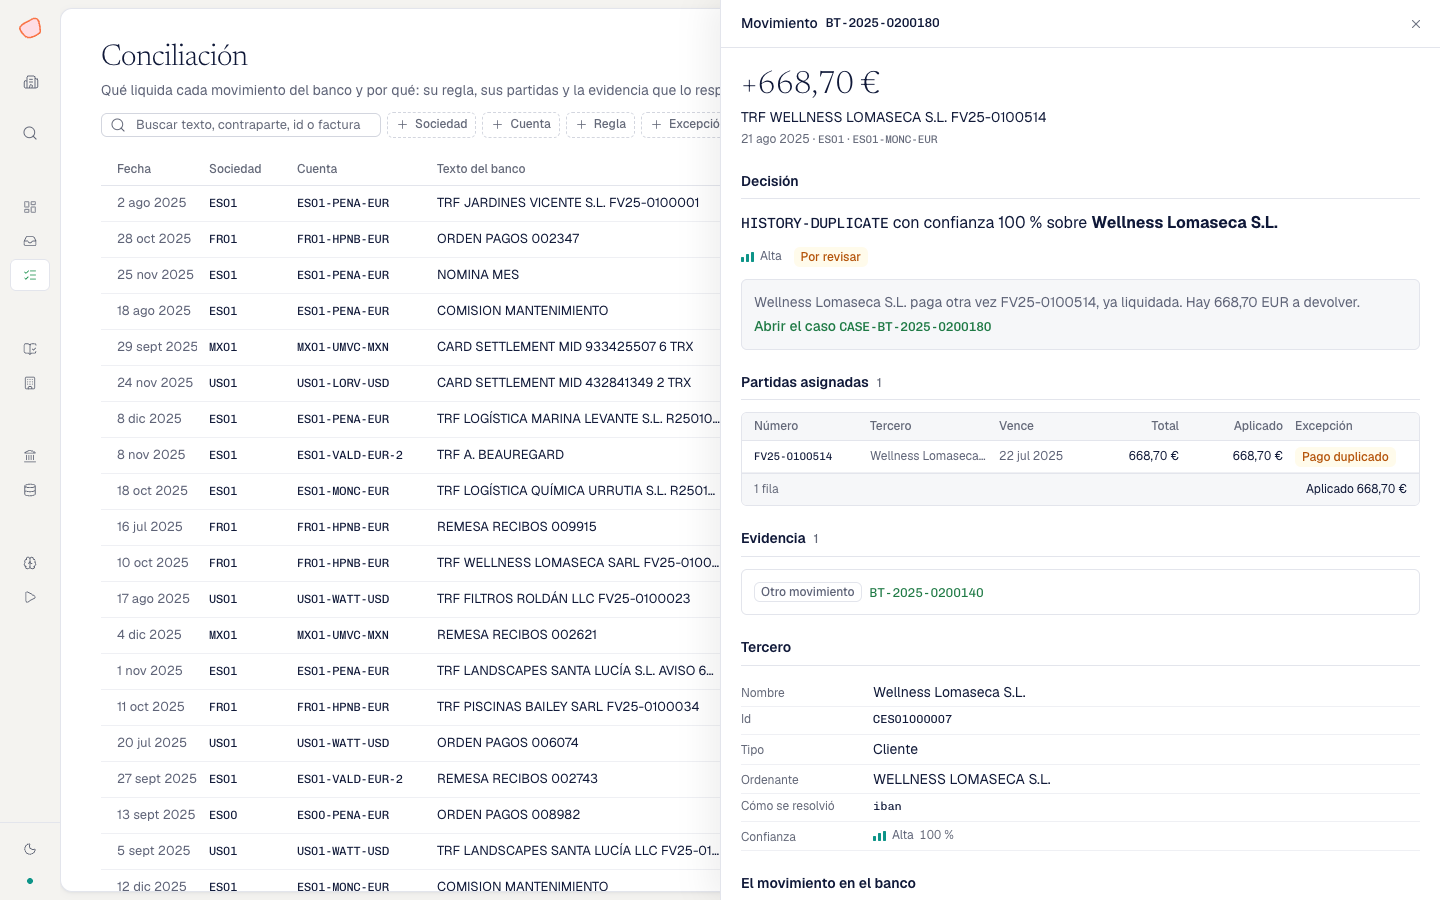
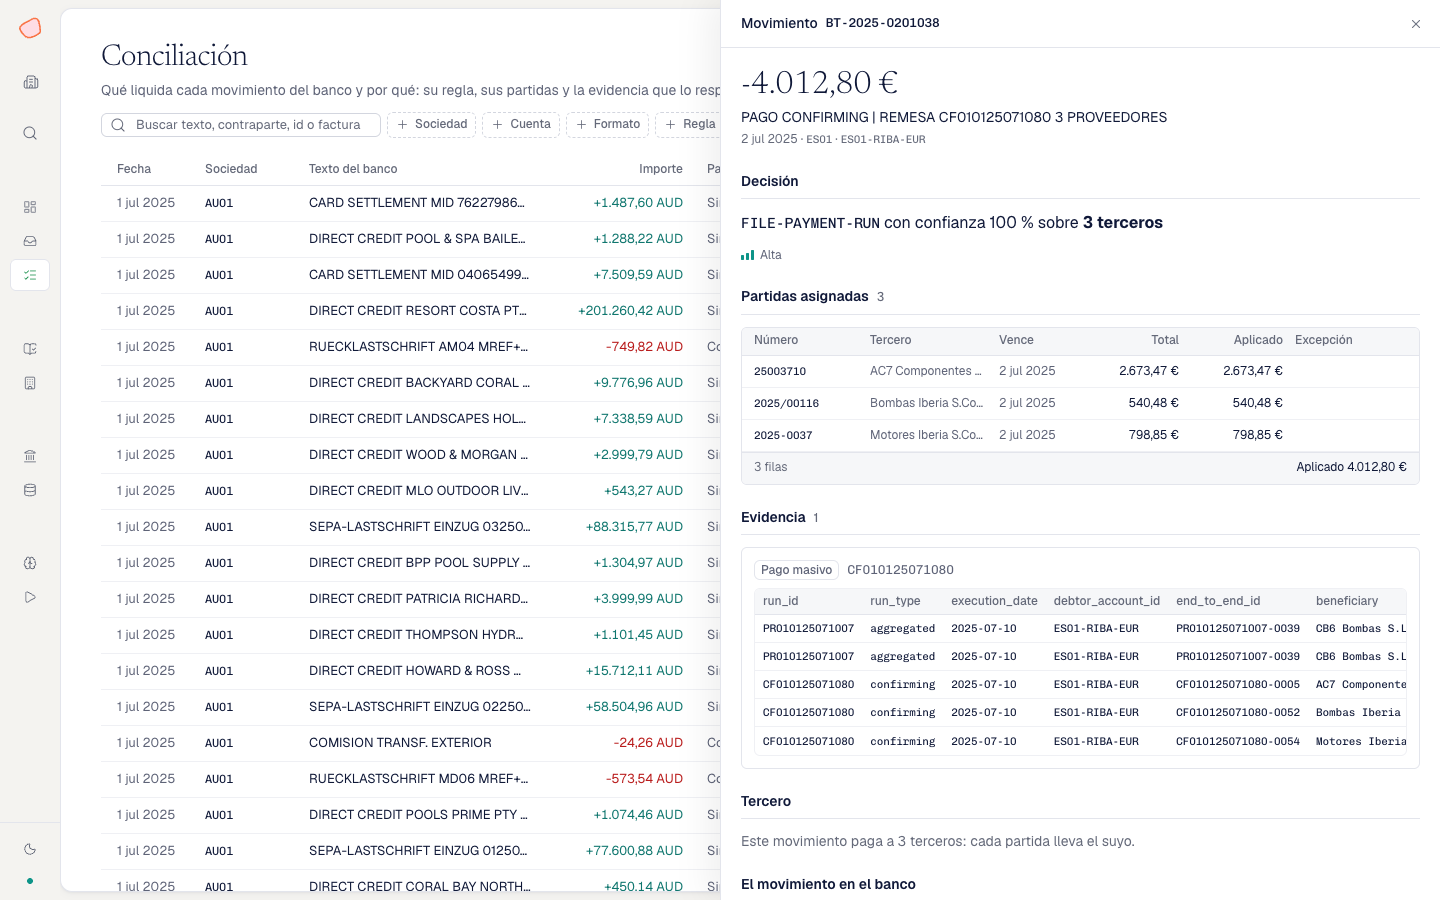
[KPI-7] fix: design pass over the shared components and the screens in main
* [KPI-7] fix: Spanish labels for bank categories

(cherry picked from commit 0c72194ccd0ac05768b8546ce1193e1a87164600)

* [KPI-7] fix: larger hit areas for sort headers and metric hints

(cherry picked from commit d1a57c63c44796242bf2285eb7e62d69ab41d52e)

* [KPI-7] fix: let a progress segment take a token colour of its own

(cherry picked from commit 30ecb0bbd16d3c14438f7c585478a9100c8f5447)

* [KPI-7] fix: accounts columns fit headers and amounts, net of the period no longer reads as a balance

(cherry picked from commit 0445e644545325e9ecab1d0f405786d687b4a3ca)

* [KPI-7] fix: reconciliation keeps its rule column in view, wide case badge and Spanish category names

(cherry picked from commit 622df5db34c9194d352fc099b3a92a7c9b6ec05d)

* [KPI-7] fix: Spanish category name in the movement panel

(cherry picked from commit d58e3395cd33ec4b9278c04fdf3db3a64acd4ce7)

* [KPI-7] fix: Spanish category names in the overview

(cherry picked from commit eb4f5532aecda57cc6477784154d1766f6e58f18)

* [KPI-7] fix: one new-rule action on the empty rules list

(cherry picked from commit d928df177f9c9aa83b3e3fa2fcd49f1055e47073)

* [KPI-7] fix: reconciliation amount column fits the longest foreign amount

(cherry picked from commit 5601202c873c951430134f8979764f4cf6d7c531)

* [KPI-7] docs: refresh screenshots with the real LIVE run

diff --git a/app/src/features/accounts/AccountsPage.tsx b/app/src/features/accounts/AccountsPage.tsx
@@ -26,9 +26,9 @@ const COLUMNS: Column<Account>[] = [
     ),
     sortValue: (a) => a.accountId,
   },
-  { id: 'bank', header: 'Banco', width: 'minmax(112px, 1fr)', cell: (a) => a.bankName ?? a.bank, sortValue: (a) => a.bankName ?? a.bank },
-  { id: 'entity', header: 'Sociedad', width: 84, cell: (a) => <Mono>{a.entity}</Mono>, sortValue: (a) => a.entity },
-  { id: 'currency', header: 'Divisa', width: 64, cell: (a) => <Mono>{a.currency}</Mono>, sortValue: (a) => a.currency },
+  { id: 'bank', header: 'Banco', width: 'minmax(150px, 1fr)', cell: (a) => a.bankName ?? a.bank, sortValue: (a) => a.bankName ?? a.bank },
+  { id: 'entity', header: 'Sociedad', width: 104, cell: (a) => <Mono>{a.entity}</Mono>, sortValue: (a) => a.entity },
+  { id: 'currency', header: 'Divisa', width: 84, cell: (a) => <Mono>{a.currency}</Mono>, sortValue: (a) => a.currency },
   {
     id: 'format',
     header: 'Formato',
@@ -45,13 +45,13 @@ const COLUMNS: Column<Account>[] = [
     },
     sortValue: (a) => currentFormat(a.formats),
   },
-  { id: 'txns', header: 'Movimientos', width: 104, align: 'right', cell: (a) => formatNumber(a.txns), sortValue: (a) => a.txns },
+  { id: 'txns', header: 'Movimientos', width: 124, align: 'right', cell: (a) => formatNumber(a.txns), sortValue: (a) => a.txns },
   {
     id: 'inflow',
     header: 'Entradas',
     width: 120,
     align: 'right',
-    cell: (a) => <Amount cents={a.inflowCents} currency={a.currency} decimals={0} />,
+    cell: (a) => <Amount cents={a.inflowCents} currency={a.currency} decimals={0} compact />,
     sortValue: (a) => a.inflowCents,
   },
   {
@@ -59,21 +59,21 @@ const COLUMNS: Column<Account>[] = [
     header: 'Salidas',
     width: 120,
     align: 'right',
-    cell: (a) => <Amount cents={a.outflowCents} currency={a.currency} decimals={0} />,
+    cell: (a) => <Amount cents={a.outflowCents} currency={a.currency} decimals={0} compact />,
     sortValue: (a) => a.outflowCents,
   },
   {
     id: 'net',
-    header: 'Saldo acumulado',
-    width: 140,
+    header: 'Neto del periodo',
+    width: 148,
     align: 'right',
-    cell: (a) => <Amount cents={a.netCents} currency={a.currency} decimals={0} colorize />,
+    cell: (a) => <Amount cents={a.netCents} currency={a.currency} decimals={0} compact />,
     sortValue: (a) => a.netCents,
   },
   {
     id: 'reconciled',
     header: '% conciliado',
-    width: 112,
+    width: 132,
     cell: (a) =>
       a.reconciledRate == null ? (
         '—'
@@ -106,7 +106,7 @@ export function AccountsPage() {
 
   return (
     <Page fill>
-      <PageHeader title="Cuentas bancarias" subtitle="Las cuentas del grupo, su formato, su saldo y su conciliación. Pulsa una cuenta para ver sus movimientos." />
+      <PageHeader title="Cuentas bancarias" subtitle="Las cuentas del grupo, su formato, su neto y su conciliación. Pulsa una cuenta para ver sus movimientos." />
       <div className={styles.metrics}>
         <Card padding="sm">
           <Metric label="Cuentas" value={formatNumber(summary.accounts)} loading={accounts.isPending} />

diff --git a/app/src/features/reconciliation/ReconciliationPage.tsx b/app/src/features/reconciliation/ReconciliationPage.tsx
@@ -15,15 +15,14 @@ import styles from './ReconciliationPage.module.css'
 const getRowId = (t: TxnRow) => t.bankTxnId
 
 const COLUMNS: Column<TxnRow>[] = [
-  { id: 'bookingDate', header: 'Fecha', width: 96, cell: (t) => <span className={styles.muted}>{formatDate(t.bookingDate)}</span>, sortValue: (t) => t.bookingDate },
-  { id: 'entity', header: 'Sociedad', width: 88, cell: (t) => <Mono>{t.entity}</Mono>, sortValue: (t) => t.entity },
-  { id: 'accountId', header: 'Cuenta', width: 140, cell: (t) => <Mono>{t.accountId}</Mono>, sortValue: (t) => t.accountId },
-  { id: 'text', header: 'Texto del banco', width: 'minmax(240px, 2fr)', cell: (t) => <span className={styles.text} title={t.text}>{t.text}</span>, sortValue: (t) => t.text },
-  { id: 'amountEur', header: 'Importe', width: 132, align: 'right', cell: (t) => <Amount cents={t.amountCents} currency={t.currency} signed colorize />, sortValue: (t) => t.amountEur },
+  { id: 'bookingDate', header: 'Fecha', width: 92, cell: (t) => <span className={styles.muted}>{formatDate(t.bookingDate)}</span>, sortValue: (t) => t.bookingDate },
+  { id: 'entity', header: 'Sociedad', width: 104, cell: (t) => <Mono>{t.entity}</Mono>, sortValue: (t) => t.entity },
+  { id: 'text', header: 'Texto del banco', width: 'minmax(180px, 2fr)', cell: (t) => <span className={styles.text} title={t.text}>{t.text}</span>, sortValue: (t) => t.text },
+  { id: 'amountEur', header: 'Importe', width: 152, align: 'right', cell: (t) => <Amount cents={t.amountCents} currency={t.currency} signed colorize />, sortValue: (t) => t.amountEur },
   {
     id: 'rowCount',
     header: 'Partidas',
-    width: 150,
+    width: 148,
     cell: (t) => {
       const { first, mono, extra } = rowsCell(t)
       if (first == null) return <span className={styles.muted}>—</span>
@@ -36,15 +35,17 @@ const COLUMNS: Column<TxnRow>[] = [
     },
     sortValue: (t) => t.rowCount,
   },
-  { id: 'rule', header: 'Regla', width: 168, cell: (t) => <Mono>{t.rule}</Mono>, sortValue: (t) => t.rule },
+  { id: 'rule', header: 'Regla', width: 176, cell: (t) => <Mono>{t.rule}</Mono>, sortValue: (t) => t.rule },
   { id: 'confidence', header: 'Confianza', width: 96, cell: (t) => <ConfidenceBand value={t.confidence} />, sortValue: (t) => t.confidence },
   {
     id: 'caseStatus',
     header: 'Caso',
-    width: 112,
+    width: 136,
     cell: (t) => (t.caseStatus ? <Badge tone={CASE_STATUS_TONE[t.caseStatus]}>{CASE_STATUS_LABEL[t.caseStatus]}</Badge> : <span className={styles.muted}>—</span>),
     sortValue: (t) => t.caseStatus,
   },
+  // Last: the account is also a filter and the panel's header, so it is what falls off a narrow screen, not the rule.
+  { id: 'accountId', header: 'Cuenta', width: 140, cell: (t) => <Mono>{t.accountId}</Mono>, sortValue: (t) => t.accountId },
 ]
 
 export function ReconciliationPage() {

diff --git a/app/src/features/reconciliation/model.ts b/app/src/features/reconciliation/model.ts
@@ -1,6 +1,6 @@
 // Pure logic of the reconciliation screen: URL filters → API params, facet options, table cells.
 import type { Account, CaseStatus, RunStats, TxnRow } from '@/domain'
-import { CASE_STATUS_LABEL, exceptionLabel, INBOX_STATUSES } from '@/domain'
+import { CASE_STATUS_LABEL, categoryLabel, exceptionLabel, INBOX_STATUSES } from '@/domain'
 import type { SortState } from '@/components'
 
 export type FacetKey = 'entity' | 'account' | 'format' | 'rule' | 'exception' | 'category' | 'status'
@@ -61,7 +61,7 @@ export function rowsCell(row: TxnRow): RowsCell {
   if (!a || row.rowCount === 0) return { first: null, mono: false, extra: 0 }
   const extra = row.rowCount - 1
   if (a.documentNumber) return { first: a.documentNumber, mono: true, extra }
-  const label = a.exception ? exceptionLabel(a.exception) : a.category
+  const label = a.exception ? exceptionLabel(a.exception) : a.category ? categoryLabel(a.category) : null
   return { first: label, mono: false, extra }
 }
 
@@ -85,7 +85,7 @@ export function buildFacetOptions(stats: RunStats | undefined, accounts: Account
     format: [...new Set((accounts ?? []).flatMap((a) => a.formats.map((f) => f.format)))].sort().map((format) => ({ value: format, label: format })),
     rule: (stats?.byRule ?? []).map((r) => ({ value: r.rule, label: r.rule, count: r.txns })),
     exception: (stats?.byException ?? []).map((e) => ({ value: e.exception, label: exceptionLabel(e.exception) })),
-    category: (stats?.byCategory ?? []).map((c) => ({ value: c.category, label: c.category, count: c.txns })),
+    category: (stats?.byCategory ?? []).map((c) => ({ value: c.category, label: categoryLabel(c.category), count: c.txns })),
     status: (Object.entries(stats?.byStatus ?? {}) as [CaseStatus, number][])
       .sort(([a], [b]) => statusRank(a) - statusRank(b))
       .map(([status, count]) => ({ value: status, label: CASE_STATUS_LABEL[status] ?? status, count })),

diff --git a/app/src/domain/labels.ts b/app/src/domain/labels.ts
@@ -61,8 +61,34 @@ export const EXCEPTION_LABEL: Record<string, string> = {
   UNIDENTIFIED: 'Sin identificar',
 }
 
+/** Short names of the categories in masters/categories.csv; the master's description is the long form. */
+export const CATEGORY_LABEL: Record<string, string> = {
+  BANK_FEES: 'Comisiones bancarias',
+  INTEREST_INCOME: 'Intereses a favor',
+  INTEREST_EXPENSE: 'Intereses de deudas',
+  PAYROLL: 'Nóminas',
+  SOCIAL_SECURITY: 'Seguridad social',
+  TAX_PAYMENT: 'Impuestos',
+  TAX_REFUND: 'Devolución de impuestos',
+  LOAN_DRAWDOWN: 'Disposición de préstamo',
+  LOAN_REPAYMENT: 'Cuota de préstamo',
+  LEASING: 'Leasing',
+  FX_DEAL: 'Compraventa de divisa',
+  CASH_POOL: 'Cash pooling',
+  INTERCOMPANY: 'Intragrupo',
+  INTERNAL_TRANSFER: 'Traspaso entre cuentas',
+  CUSTOMER_ADVANCE: 'Anticipo de cliente',
+  CUSTOMER_REFUND: 'Devolución a cliente',
+  SUPPLIER_REFUND: 'Reembolso de proveedor',
+  CARD_EXPENSES: 'Tarjetas de empresa',
+  INSURANCE: 'Seguros',
+  BANK_REVERSAL: 'Apunte erróneo del banco',
+  UNIDENTIFIED: 'Sin identificar',
+}
+
 /** Unknown values stay readable: the vocabulary may grow with the contract. */
 export const exceptionLabel = (exception: string) => EXCEPTION_LABEL[exception] ?? exception
+export const categoryLabel = (category: string) => CATEGORY_LABEL[category] ?? category
 export const caseKindLabel = (kind: string) => CASE_KIND_LABEL[kind as CaseKind] ?? kind
 
 /** Share of movements closed with no intervention, 0..1. */

diff --git a/app/src/components/ProgressBar/ProgressBar.tsx b/app/src/components/ProgressBar/ProgressBar.tsx
@@ -6,6 +6,8 @@ import styles from './ProgressBar.module.css'
 export interface ProgressSegment {
   value: number
   tone: Tone
+  /** A token of the design system (`var(--danger-ink)`) when two segments need the same tone but must tell apart. */
+  color?: string
   label: string
 }
 
@@ -41,7 +43,7 @@ export function ProgressBar({ value = 0, max = 1, indeterminate, tone = 'brand',
                 <span
                   key={s.label}
                   className={styles.segment}
-                  style={{ width: `${(s.value / sum) * 100}%`, background: toneColor(s.tone) }}
+                  style={{ width: `${(s.value / sum) * 100}%`, background: s.color ?? toneColor(s.tone) }}
                   title={`${s.label}: ${formatNumber(s.value)} (${formatPercent(s.value / sum)})`}
                 />
               ) : null,
@@ -51,7 +53,7 @@ export function ProgressBar({ value = 0, max = 1, indeterminate, tone = 'brand',
           <ul className={styles.legend}>
             {segments.map((s) => (
               <li key={s.label} className={styles.legendItem}>
-                <span className={styles.legendDot} style={{ background: toneColor(s.tone) }} aria-hidden />
+                <span className={styles.legendDot} style={{ background: s.color ?? toneColor(s.tone) }} aria-hidden />
                 <span>{s.label}</span>
                 <span className={clsx(styles.legendCount, 'tabular')}>{formatNumber(s.value)}</span>
               </li>

diff --git a/app/src/features/overview/OverviewPage.tsx b/app/src/features/overview/OverviewPage.tsx
@@ -1,7 +1,7 @@
 import { ArrowRight } from 'lucide-react'
 import { Amount, ButtonLink, Card, EmptyState, Metric, Mono, Page, PageHeader, Section, Skeleton } from '@/components'
 import { useActiveRun, useRun, useRunStats } from '@/data'
-import { autoRate, exceptionLabel } from '@/domain'
+import { autoRate, categoryLabel, exceptionLabel } from '@/domain'
 import { formatDate, formatMoney, formatNumber, formatPercent } from '@/lib/format'
 import { useEntityScope, useScopedTo } from '@/lib/urlState'
 import { DayChart } from './DayChart'
@@ -146,7 +146,7 @@ export function OverviewPage() {
         <Section title="Categorías" description="Movimientos sin factura, por categoría.">
           <Card padding="none">
             {stats.byCategory.length ? (
-              <RankList rows={stats.byCategory.slice(0, TOP).map((c) => ({ key: c.category, label: <Mono>{c.category}</Mono>, value: c.txns, detail: <Amount cents={c.amountEur} compact /> }))} />
+              <RankList rows={stats.byCategory.slice(0, TOP).map((c) => ({ key: c.category, label: categoryLabel(c.category), value: c.txns, detail: <Amount cents={c.amountEur} compact /> }))} />
             ) : (
               <EmptyState size="sm" title="Sin categorías" />
             )}

diff --git a/app/src/features/memory/RuleList.tsx b/app/src/features/memory/RuleList.tsx
@@ -12,10 +12,9 @@ import styles from './RuleList.module.css'
 interface Props {
   runId: string
   rules: MemoryRule[]
-  onNew: () => void
 }
 
-export function RuleList({ runId, rules, onNew }: Props) {
+export function RuleList({ runId, rules }: Props) {
   const [entity] = useEntityScope()
   const scoped = useScopedTo()
   const stats = useRunStats(runId, null)
@@ -59,12 +58,7 @@ export function RuleList({ runId, rules, onNew }: Props) {
           <EmptyState
             icon={<Brain />}
             title={entity ? 'Ninguna regla para esta sociedad' : 'Todavía no se ha enseñado nada al sistema'}
-            description="Las reglas nacen al responder una pregunta de la bandeja y marcar «guardar como regla», o aquí."
-            action={
-              <Button variant="secondary" onClick={onNew}>
-                Nueva regla
-              </Button>
-            }
+            description="Las reglas nacen al responder una pregunta de la bandeja y marcar «guardar como regla», o con «Nueva regla»."
           />
         </Card>
       ) : (

diff --git a/app/src/features/reconciliation/model.test.ts b/app/src/features/reconciliation/model.test.ts
@@ -58,6 +58,8 @@ describe('rowsCell', () => {
     expect(rowsCell(exc)).toEqual({ first: 'Sin identificar', mono: false, extra: 0 })
     const cat = { ...base, rowCount: 1, assignments: [{ documentNumber: null, category: 'BANK_FEE', exception: null }] } as unknown as TxnRow
     expect(rowsCell(cat)).toEqual({ first: 'BANK_FEE', mono: false, extra: 0 })
+    const known = { ...base, rowCount: 1, assignments: [{ documentNumber: null, category: 'BANK_FEES', exception: null }] } as unknown as TxnRow
+    expect(rowsCell(known)).toEqual({ first: 'Comisiones bancarias', mono: false, extra: 0 })
   })
   it('has nothing when the movement has no rows', () => {
     expect(rowsCell({ ...base, rowCount: 0 } as TxnRow)).toEqual({ first: null, mono: false, extra: 0 })

diff --git a/app/src/features/shared/TxnRows.tsx b/app/src/features/shared/TxnRows.tsx
@@ -1,5 +1,5 @@
 import type { DetailRow } from '@/domain'
-import { exceptionLabel } from '@/domain'
+import { categoryLabel, exceptionLabel } from '@/domain'
 import { Amount, Badge, Mono } from '@/components'
 import { formatDate } from '@/lib/format'
 import { sumByCurrency } from './txnPanelModel'
@@ -42,7 +42,7 @@ export function TxnRows({ rows }: { rows: DetailRow[] }) {
               {r.exception ? (
                 <Badge tone={r.exception === 'UNIDENTIFIED' ? 'danger' : 'warn'}>{exceptionLabel(r.exception)}</Badge>
               ) : r.category ? (
-                <Mono>{r.category}</Mono>
+                <span title={r.category}>{categoryLabel(r.category)}</span>
               ) : null}
             </span>
           </div>

diff --git a/app/src/domain/labels.test.ts b/app/src/domain/labels.test.ts
@@ -1,0 +1,13 @@
+import { describe, expect, it } from 'vitest'
+import { categoryLabel } from './labels'
+
+describe('categoryLabel', () => {
+  it('names a category of the master in Spanish', () => {
+    expect(categoryLabel('BANK_FEES')).toBe('Comisiones bancarias')
+    expect(categoryLabel('CASH_POOL')).toBe('Cash pooling')
+  })
+
+  it('keeps an unknown category readable as its code', () => {
+    expect(categoryLabel('NEW_FINAL_CATEGORY')).toBe('NEW_FINAL_CATEGORY')
+  })
+})

diff --git a/app/src/features/memory/MemoryPage.tsx b/app/src/features/memory/MemoryPage.tsx
@@ -77,7 +77,7 @@ export function MemoryPage() {
           ) : !rules ? (
             <Skeleton height={160} radius="var(--radius-lg)" />
           ) : (
-            <RuleList runId={runId} rules={rules} onNew={() => setCreating(true)} />
+            <RuleList runId={runId} rules={rules} />
           ))}
       </TabPanel>
       <TabPanel idPrefix="memoria" id="politicas">

diff --git a/app/src/components/Metric/Metric.module.css b/app/src/components/Metric/Metric.module.css
@@ -15,10 +15,18 @@
 }
 
 .hint {
+  position: relative;
   display: inline-flex;
   color: var(--ink-3);
   border-radius: var(--radius-pill);
   cursor: help;
+}
+
+/* The icon stays small; the hit area reaches 25px. */
+.hint::after {
+  content: '';
+  position: absolute;
+  inset: -6px;
 }
 
 .hint svg {
